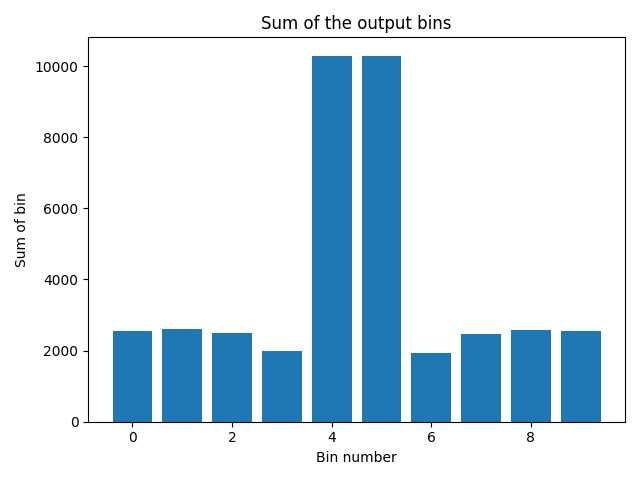
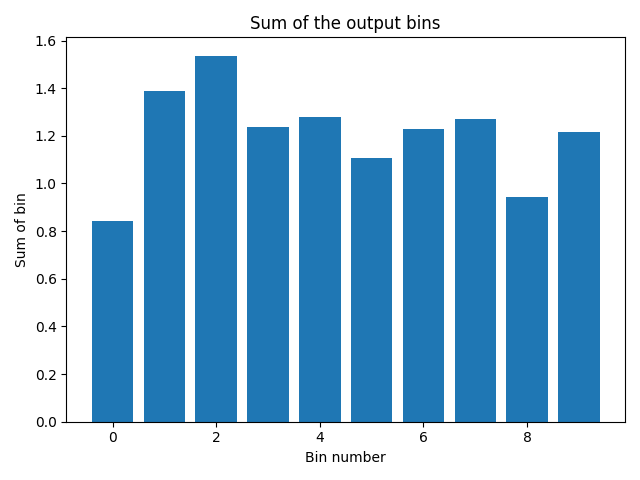
Updates to ensure code uniformity

diff --git a/dfa field mnist dataset.py b/dfa field mnist dataset.py
@@ -5,25 +5,38 @@ from sklearn.datasets import load_digits
 from sklearn.model_selection import train_test_split
 from sklearn.preprocessing import StandardScaler
 import numpy as np
-from sklearn.metrics import confusion_matrix, ConfusionMatrixDisplay
+from sklearn.metrics import accuracy_score, confusion_matrix, ConfusionMatrixDisplay
 import matplotlib.pyplot as plt
 from torchvision import datasets, transforms
 from torch.utils.data import DataLoader, random_split
 
 
 
+def guassian(length, total_indexes):
+    center_index=total_indexes//2
+    x = np.linspace(0, length - 1, length)
+    mean = x[center_index * length // total_indexes]
+    std_dev = length / 5
+    gaussian_array = np.exp(-0.5 * ((x - mean) / std_dev) ** 2)
+    gaussian_array /= np.max(gaussian_array) # normalisation condition
+    return gaussian_array
+
 # Generate scattering matrix (complex weights)
 def random_unitary_tensor(n, d):
+    #n = no spatial inputs
+    #d = no of time
     tensor_slices = []
     p = 0
+    add_dispersion = guassian(n,d)
     while p < d:
         random_matrix = np.random.rand(n, n) + 1j * np.random.rand(n, n)
         scatter_matrix, _ = np.linalg.qr(random_matrix)
         for j in range(n):
             p += 1
             if p > d: break
-            tensor_slices.append(scatter_matrix[j])
-    return np.array(tensor_slices).reshape((n, d))
+            tensor_slices.append(scatter_matrix[j] * add_dispersion)
+    tensor = np.array(tensor_slices).reshape((d, n))
+    return tensor
 
 # ----- Dataset Scaling -----
 # Hyperparameters
@@ -41,7 +54,7 @@ input_freq = 5
 time_domain_waveform = np.exp(1j * input_freq * t) * np.exp(-500 * input_freq**2 * t**2)
 
 # Generate new scattering matrix
-scatter_np = random_unitary_tensor(n_time,n_pixels_new)
+scatter_np = random_unitary_tensor(n_pixels_new, n_time)
 scatter = torch.tensor(scatter_np, dtype=torch.cfloat)
 
 
@@ -124,7 +137,7 @@ loss_fn = nn.CrossEntropyLoss()
 n_epochs = 10
 batch_size = 32
 
-
+train_accuracies = []
 
 for epoch in range(n_epochs):
     model.train()
@@ -150,6 +163,8 @@ for epoch in range(n_epochs):
             preds = model(val_x_scaled)
             correct += (preds.argmax(1) == val_y).sum().item()
             total += val_y.size(0)
+        train_accuracies.append(correct/total)
+        model.v.clamp_(0.0)
 
     print(f"Epoch {epoch+1}: Val Accuracy = {correct / total:.4f}")
 
@@ -175,6 +190,11 @@ with torch.no_grad():
 y_pred = torch.cat(all_preds).cpu().numpy()
 y_true = y_test_tensor.cpu().numpy()
 
+accuracy = accuracy_score(y_true, y_pred)
+print(f"Test Accuracy: {accuracy:.2%}")  # e.g. 94.50%
+
+
+
 # ----- Confusion Matrix -----
 cm = confusion_matrix(y_true, y_pred, normalize='true')
 disp = ConfusionMatrixDisplay(confusion_matrix=cm, display_labels=[str(i) for i in range(10)])
@@ -184,6 +204,14 @@ fig, ax = plt.subplots(figsize=(8, 8))
 disp.plot(ax=ax, cmap="Blues", colorbar=True)
 plt.title("Confusion Matrix")
 plt.show()
+
+plt.plot(range(1, n_epochs + 1), train_accuracies, marker='o')
+plt.xlabel('Epoch')
+plt.ylabel('Training Accuracy')
+plt.title('Training Accuracy vs Epoch')
+plt.grid(True)
+plt.show()
+
 
 
 # ----- Verify that the distribution of bins for random SLM arrangements is even -----------

diff --git a/gradient descent field digits dataset.py b/gradient descent field digits dataset.py
@@ -5,7 +5,7 @@ from sklearn.datasets import load_digits
 from sklearn.model_selection import train_test_split
 from sklearn.preprocessing import StandardScaler
 import numpy as np
-from sklearn.metrics import confusion_matrix, ConfusionMatrixDisplay
+from sklearn.metrics import accuracy_score, confusion_matrix, ConfusionMatrixDisplay
 import matplotlib.pyplot as plt
 
 
@@ -116,6 +116,8 @@ y_val_tensor = torch.tensor(y_val, dtype=torch.long)
 n_epochs = 20
 batch_size = 32
 
+train_accuracies = []
+
 for epoch in range(n_epochs):
     model.train()
     permutation = torch.randperm(X_train_tensor.size(0))
@@ -141,6 +143,7 @@ for epoch in range(n_epochs):
     with torch.no_grad():
         val_preds = model(X_val_tensor)
         val_accuracy = (val_preds.argmax(dim=1) == y_val_tensor).float().mean().item()
+        train_accuracies.append(val_accuracy)
     print(f"Epoch {epoch+1} | Loss: {loss.item():.4f} | Val Accuracy: {val_accuracy:.4f}")
 
     model.add_water()
@@ -163,6 +166,10 @@ with torch.no_grad():
 y_pred = torch.cat(all_preds).cpu().numpy()
 y_true = y_test_tensor.cpu().numpy()
 
+accuracy = accuracy_score(y_true, y_pred)
+print(f"Test Accuracy: {accuracy:.2%}")  # e.g. 94.50%
+
+
 # ----- Confusion Matrix -----
 cm = confusion_matrix(y_true, y_pred, normalize='true')
 disp = ConfusionMatrixDisplay(confusion_matrix=cm, display_labels=[str(i) for i in range(10)])
@@ -172,6 +179,21 @@ fig, ax = plt.subplots(figsize=(8, 8))
 disp.plot(ax=ax, cmap="Blues", colorbar=True)
 plt.title("Confusion Matrix")
 plt.show()
+
+
+plt.plot(range(1, n_epochs + 1), train_accuracies, marker='o')
+plt.xlabel('Epoch')
+plt.ylabel('Training Accuracy')
+plt.title('Training Accuracy vs Epoch')
+plt.grid(True)
+plt.show()
+
+
+
+
+
+
+
 
 
 # ----- Verify that the distribution of bins for random SLM arrangements is even -----------
@@ -185,6 +207,10 @@ for i in range(1000):
 
 plt.bar(np.linspace(0,9,10), sum_outputs)
 plt.show()
+
+
+
+
 
 
 # ----- Verify that the distribution of bins for random SLM arrangements is even -----------

diff --git a/phase modulation gradient descent field mnist dataset.py b/phase modulation gradient descent field mnist dataset.py
@@ -93,9 +93,10 @@ test_loader  = DataLoader(test_dataset, batch_size=batch_size)
 
 
 # ----- Forward Simulation -----
-def forward(modulated_input, v, complex_weights):
+def forward(modulated_input, v, phases, complex_weights):
     E_in = torch.tensor(modulated_input, dtype=torch.cfloat)  # (n_pixels, n_time)
     E_scaled = E_in * v.view(-1, 1)  # element-wise amplitude modulation
+    E_scaled = E_scaled * (torch.exp(1j * phases)).view(-1,1) #element wise phase modulation
     E_fft = torch.fft.fft(E_scaled, dim=1) * noisy_gaussian_envelope
     s = torch.einsum('ij,ij->j', E_fft, complex_weights)
     s_ifft = torch.fft.ifft(s)
@@ -113,6 +114,7 @@ class ScatteringClassifier(nn.Module):
     def __init__(self, n_pixels, scatter_matrix):
         super().__init__()
         self.v = nn.Parameter(torch.rand(n_pixels))  # learnable spatial profile
+        self.phase = nn.Parameter(torch.rand(n_pixels) * (2 * torch.pi) )
         self.scatter_matrix = scatter_matrix
         self.linear = nn.Linear(10, 10)  # from 10 chunks to 10 classes
         self.waterfall = []
@@ -121,7 +123,7 @@ class ScatteringClassifier(nn.Module):
         batch_outputs = []
         for x in x_batch:
             modulated_input = np.outer(x, time_domain_waveform)
-            chunk_output = forward(modulated_input, self.v, self.scatter_matrix)
+            chunk_output = forward(modulated_input, self.v, self.phase, self.scatter_matrix)
             batch_outputs.append(chunk_output)
         batch_tensor = torch.stack(batch_outputs)  # (batch_size, 10)
         return self.linear(batch_tensor)
@@ -177,6 +179,7 @@ for epoch in range(n_epochs):
             correct += (preds.argmax(1) == val_y).sum().item()
             total += val_y.size(0)
         train_accuracies.append(correct/total)
+        model.v.clamp_(0.0)
 
     print(f"Epoch {epoch+1}: Val Accuracy = {correct / total:.4f}")
 

diff --git a/field scattering with correlated.py b/field scattering with correlated.py
@@ -13,13 +13,18 @@ def guassian(length, total_indexes):
 
 # Generate scattering matrix (complex weights)
 def correlated_scatterer(n,d):
+    #n = no spatial inputs
+    #d = no of time
     tensor_slices = []
+    p = 0
     add_dispersion = guassian(n,d)
-    freq_slice  = np.random.randn(n) + 1j * np.random.randn(n)
-    for _ in range(0,d):
-        noise =  1 * (np.random.randn(n)) + 1 * (1j * np.random.randn(n))
-        freq_slice += noise + 1 * add_dispersion
-        tensor_slices.append(freq_slice * add_dispersion)
+    while p < d:
+        random_matrix = np.random.rand(n, n) + 1j * np.random.rand(n, n)
+        scatter_matrix, _ = np.linalg.qr(random_matrix)
+        for j in range(n):
+            p += 1
+            if p > d: break
+            tensor_slices.append(scatter_matrix[j] * add_dispersion)
     tensor = np.array(tensor_slices).reshape((d, n))
     return tensor
 
@@ -84,18 +89,6 @@ plt.plot(E_fft[0])
 plt.tight_layout()
 
 plt.savefig('Field Scattering plots correlated/freq input waveform.png')
-#
-plt.close('all') 
-
-
-E_fft = E_fft * noisy_gaussian_envelope
-plt.title("Frequency Input Waveform parsed by Gaussian Envelope " + r'$\tilde{E_{in}} (\omega)$')
-plt.xlabel("Frequencies, w")
-plt.ylabel(r'$\tilde{E_{in}} (\omega)$')
-plt.plot(E_fft[0])
-plt.tight_layout()
-
-plt.savefig('Field Scattering plots correlated/Freq input parsed by envelope.png')
 #
 plt.close('all') 
 

diff --git a/field scattering.py b/field scattering.py
@@ -40,7 +40,7 @@ n_space = 200
 #1 Define input waveform
 input_freq = 5
 t = np.linspace(-3, 3, n_time)
-time_domain_waveform = np.exp(1j * input_freq * t) * np.exp(-50 * input_freq**2 * t**2)
+time_domain_waveform = np.exp(1j * input_freq * t) * np.exp(-500 * input_freq**2 * t**2)
 
 plt.plot(time_domain_waveform)
 plt.title("Field Input Waveform " + r'$E_{in} (t)$')
@@ -125,6 +125,18 @@ plt.close('all')
 s_ifft = fft.ifft(s)
 # Step 4: real part, chunk, abs, sum
 real = s_ifft.real
+
+plt.plot(real)
+plt.title("Output Waveform - Real part of " + r'$E_{out} (t)$')
+plt.xlabel("Time, t")
+plt.ylabel(r'$E_{out} (t)$')
+plt.tight_layout()
+
+plt.savefig('Field Scattering plots/real part of output.png')
+#
+plt.close('all') 
+
+
 
 plt.subplot(2,1,1)
 plt.plot(real)
@@ -284,7 +296,7 @@ plt.xlabel("Time, t")
 plt.ylabel("Spatial position")
 plt.title("Scattered output heatmap for sharp pulse")
 plt.tight_layout()
-('Field Scattering plots/sharp pulse scattered heatmap.png')
+plt.savefig('Field Scattering plots/sharp pulse scattered heatmap.png')
 #
 plt.close('all') 
 

diff --git a/gradient descent field.py b/gradient descent field.py
@@ -75,7 +75,9 @@ for step in range(100):
 
 # Final output visualization
 plt.plot(output.detach().numpy())
-plt.title("Final Chunk Sums After Training")
+plt.title("Sum of output chunks after training")
+plt.xlabel("Chunk number")
+plt.ylabel("Sum")
 plt.show()
 
 
